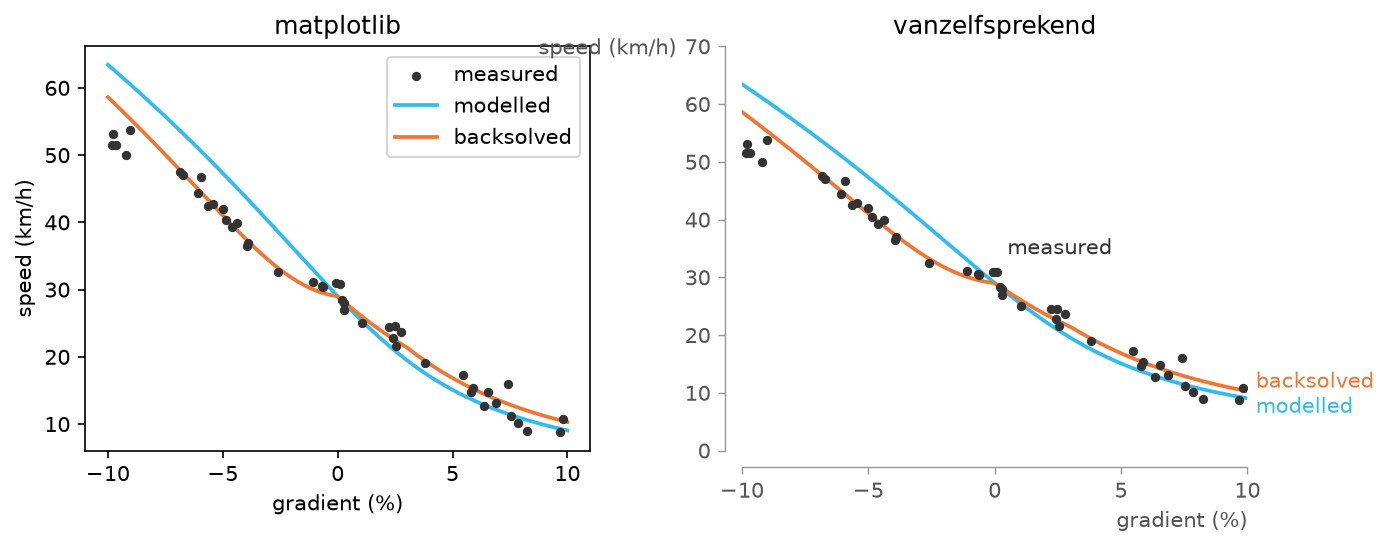
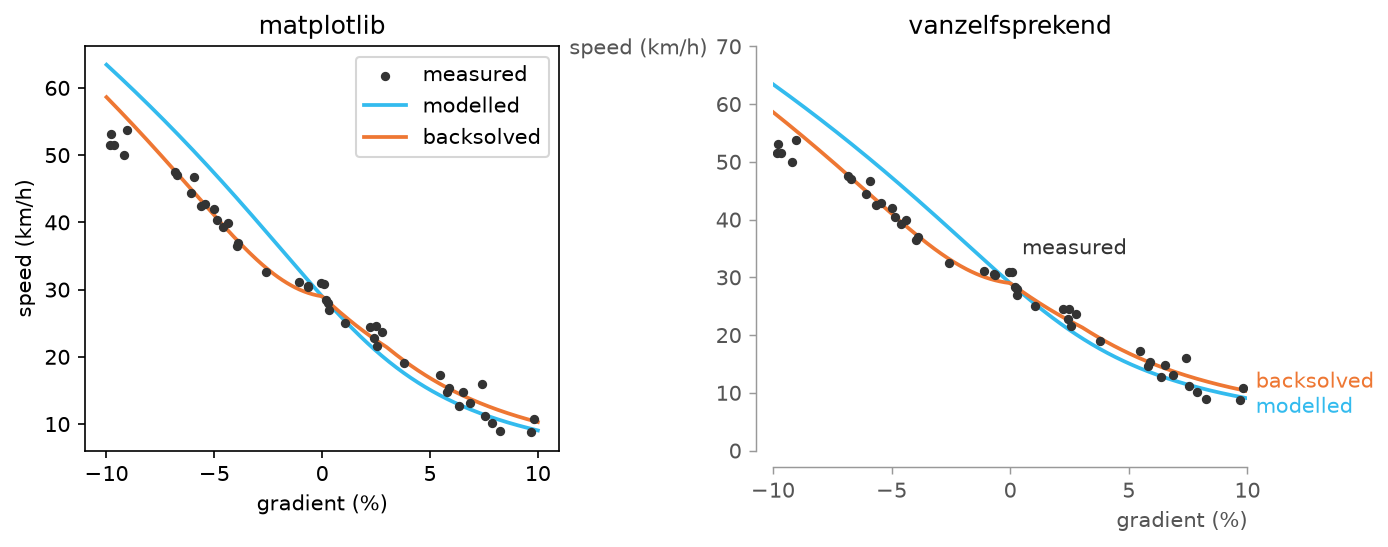
docs: widen the hero panel gap
Claude-Session: https://claude.ai/code/session_01CCYCnE8BQvtCWn7v7EDCNF

diff --git a/examples/backsolved_speed.py b/examples/backsolved_speed.py
@@ -84,7 +84,7 @@ def draw_data(ax: plt.Axes) -> None:
 def main() -> None:
     """Render the figure into `docs/backsolved_speed.png`."""
     fig, (plain, treated) = plt.subplots(1, 2, figsize=(10, 3.5))
-    fig.subplots_adjust(wspace=0.3)
+    fig.subplots_adjust(wspace=0.45)
 
     draw_data(plain)
     plain.set_xlabel("gradient (%)")
